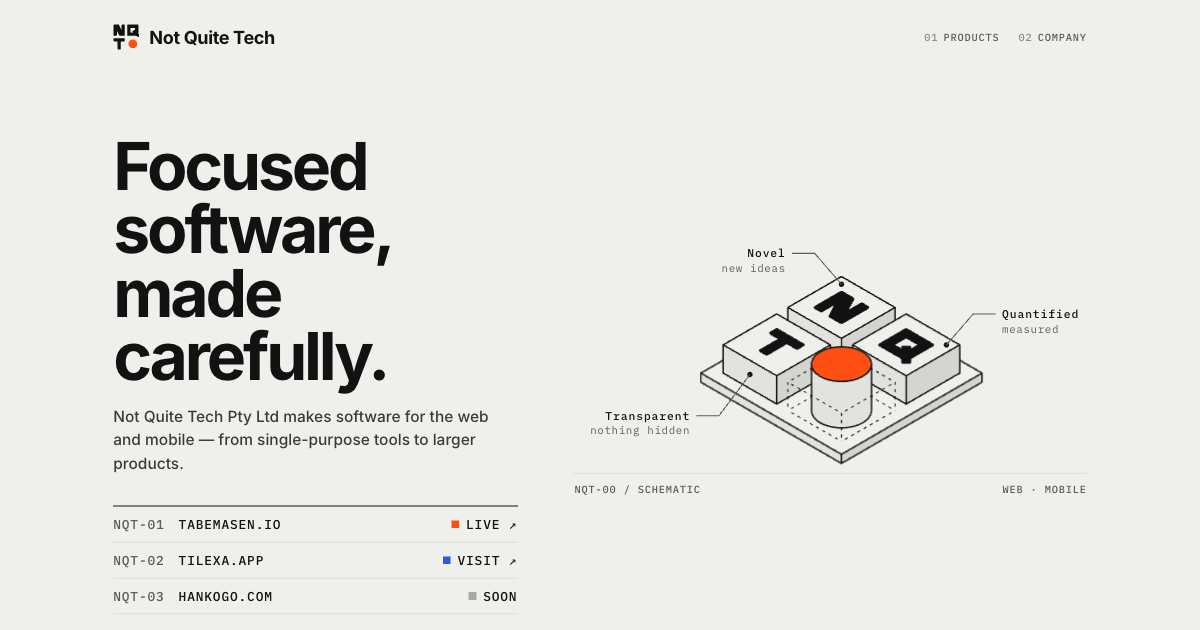
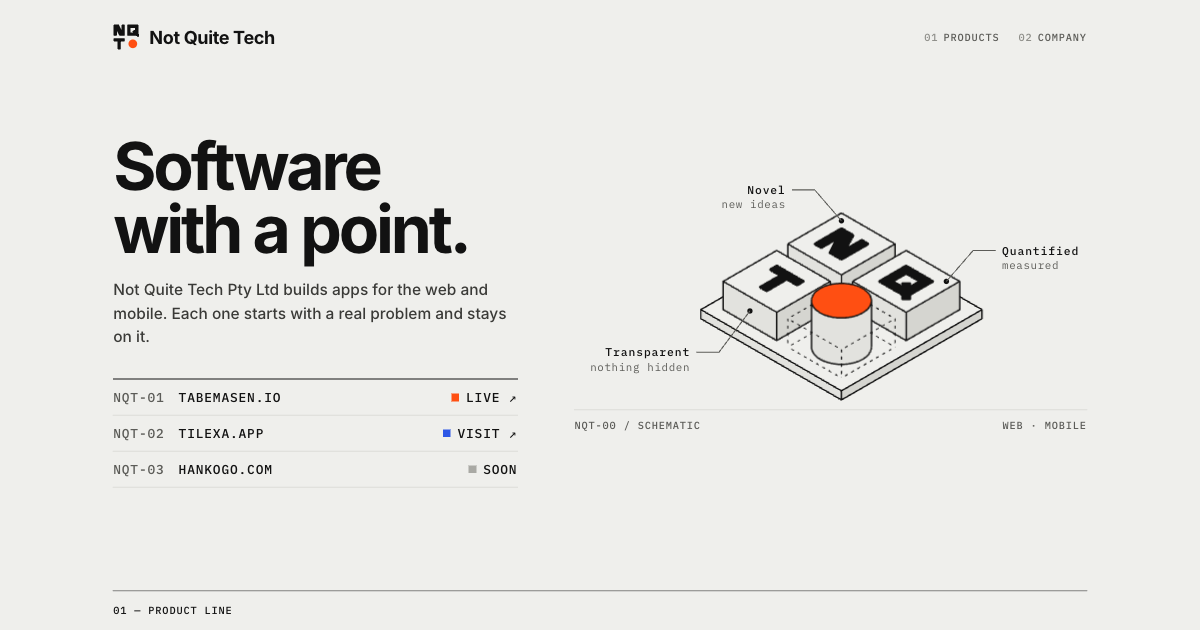
Rewrite copy, add SEO metadata, sitemap, robots and 404

diff --git a/index.html b/index.html
@@ -1,23 +1,37 @@
 <!DOCTYPE html>
-<html lang="en">
+<html lang="en-AU">
 <head>
   <meta charset="utf-8">
   <meta name="viewport" content="width=device-width, initial-scale=1">
-  <title>Not Quite Tech Pty Ltd</title>
-  <meta name="description" content="Not Quite Tech Pty Ltd makes focused software for the web and mobile.">
+  <title>Not Quite Tech · Software with a point</title>
+  <meta name="description" content="Not Quite Tech Pty Ltd is an Australian company building apps for the web and mobile, including tabemasen, tilexa and hankogo.">
+  <link rel="canonical" href="https://nqtn.me/">
   <meta name="theme-color" content="#EFEFEC">
   <link rel="icon" href="assets/img/favicon.svg" type="image/svg+xml">
   <link rel="apple-touch-icon" href="assets/img/apple-touch-icon.png">
   <meta property="og:type" content="website">
-  <meta property="og:title" content="Not Quite Tech Pty Ltd">
-  <meta property="og:description" content="Focused software, made carefully.">
+  <meta property="og:site_name" content="Not Quite Tech">
+  <meta property="og:url" content="https://nqtn.me/">
+  <meta property="og:locale" content="en_AU">
+  <meta property="og:title" content="Not Quite Tech · Software with a point">
+  <meta property="og:description" content="Apps for the web and mobile. Each one starts with a real problem and stays on it.">
   <meta property="og:image" content="https://nqtn.me/assets/img/og.png">
+  <meta property="og:image:width" content="1200">
+  <meta property="og:image:height" content="630">
+  <meta property="og:image:alt" content="Not Quite Tech homepage: the headline Software with a point, beside a schematic of three lettered blocks and an orange cylinder.">
   <meta name="twitter:card" content="summary_large_image">
+  <meta name="twitter:title" content="Not Quite Tech · Software with a point">
+  <meta name="twitter:description" content="Apps for the web and mobile. Each one starts with a real problem and stays on it.">
+  <meta name="twitter:image" content="https://nqtn.me/assets/img/og.png">
   <link rel="preload" href="assets/fonts/inter-latin.woff2" as="font" type="font/woff2" crossorigin>
   <link rel="stylesheet" href="assets/css/site.css">
   <script data-goatcounter="https://nqtn.goatcounter.com/count" async src="//gc.zgo.at/count.js"></script>
   <script type="application/ld+json">
-  {"@context":"https://schema.org","@type":"Organization","name":"Not Quite Tech Pty Ltd","url":"https://nqtn.me","logo":"https://nqtn.me/assets/img/mark.svg"}
+  {"@context":"https://schema.org","@graph":[
+    {"@type":"Organization","@id":"https://nqtn.me/#org","name":"Not Quite Tech","legalName":"Not Quite Tech Pty Ltd","url":"https://nqtn.me/","logo":{"@type":"ImageObject","url":"https://nqtn.me/assets/img/apple-touch-icon.png","width":180,"height":180},"address":{"@type":"PostalAddress","addressCountry":"AU"},"description":"Australian company building apps for the web and mobile."},
+    {"@type":"WebSite","@id":"https://nqtn.me/#website","url":"https://nqtn.me/","name":"Not Quite Tech","publisher":{"@id":"https://nqtn.me/#org"},"inLanguage":"en-AU"},
+    {"@type":"WebApplication","name":"tabemasen","url":"https://tabemasen.io","description":"A restaurant card that tells the kitchen what you can't eat.","applicationCategory":"LifestyleApplication","operatingSystem":"Web","publisher":{"@id":"https://nqtn.me/#org"}}
+  ]}
   </script>
 </head>
 <body>
@@ -34,8 +48,8 @@
   <main>
     <section class="hero" id="top">
       <div class="h-text">
-        <h1>Focused software,<br>made carefully.</h1>
-        <p>Not Quite Tech Pty Ltd makes software for the web and mobile — from single-purpose tools to larger products.</p>
+        <h1>Software<br>with a point.</h1>
+        <p>Not Quite Tech Pty Ltd builds apps for the web and mobile. Each one starts with a real problem and stays on it.</p>
         <div class="contents mono">
           <a href="https://tabemasen.io"><span class="muted">NQT-01</span><span class="nm2">tabemasen.io</span><span class="st"><i class="sq b1"></i>live ↗</span></a>
           <a href="https://tilexa.app"><span class="muted">NQT-02</span><span class="nm2">tilexa.app</span><span class="st"><i class="sq b2"></i>visit ↗</span></a>
@@ -55,7 +69,7 @@
           <a class="box" href="https://tabemasen.io" aria-label="tabemasen.io: tell the kitchen what you can’t eat. Live.">
             <div class="flap kraft" aria-hidden="true"><img src="assets/img/mark.svg" alt=""><span class="mono">this side up</span></div>
             <div class="front kraft">
-              <div class="hd"><span class="nm">tabemasen</span><span class="mono">NQT-01</span></div>
+              <div class="hd"><h3 class="nm">tabemasen</h3><span class="mono">NQT-01</span></div>
               <div class="sub"><span class="mono muted">restaurant card</span></div>
               <div class="art"><img src="assets/img/iso-tabemasen.svg" alt="" width="300" height="220"></div>
               <div class="meta"><p>Tell the kitchen what you can’t eat.</p><div><div class="barcode"></div><div class="code">010.NQT.001</div></div></div>
@@ -68,7 +82,7 @@
           <a class="box" href="https://tilexa.app" aria-label="tilexa.app">
             <div class="flap kraft" aria-hidden="true"><img src="assets/img/mark.svg" alt=""><span class="mono">this side up</span></div>
             <div class="front kraft">
-              <div class="hd"><span class="nm">tilexa</span><span class="mono">NQT-02</span></div>
+              <div class="hd"><h3 class="nm">tilexa</h3><span class="mono">NQT-02</span></div>
               <div class="sub"><span class="mono muted">tilexa.app</span></div>
               <div class="art"><img src="assets/img/iso-tilexa.svg" alt="" width="300" height="220"></div>
               <div class="meta"><p></p><div><div class="barcode"></div><div class="code">010.NQT.002</div></div></div>
@@ -81,7 +95,7 @@
           <div class="box" role="group" aria-label="hankogo.com, coming soon">
             <div class="flap kraft" aria-hidden="true"><img src="assets/img/mark.svg" alt=""><span class="mono">this side up</span></div>
             <div class="front kraft">
-              <div class="hd"><span class="nm">hankogo</span><span class="mono">NQT-03</span></div>
+              <div class="hd"><h3 class="nm">hankogo</h3><span class="mono">NQT-03</span></div>
               <div class="sub"><span class="mono muted">seal</span></div>
               <span class="soon-stamp">soon…</span>
               <div class="art"><img src="assets/img/iso-hankogo.svg" alt="" width="300" height="220"></div>
@@ -98,8 +112,8 @@
       <div class="sec-head mono"><h2>02 — Company</h2></div>
       <div class="spec">
         <div class="about">
-          <h3>Focused software, made carefully.</h3>
-          <p>Not Quite Tech Pty Ltd makes software for the web and mobile. Some of it is a single, sharp tool; some of it is a larger product. Each one is built to do its job well.</p>
+          <h3>Why “not quite”.</h3>
+          <p>Because software is never finished. Ours ships when it does its job well. Then we watch how people use it and keep tuning. The name keeps us honest.</p>
           <ol class="principles">
             <li><span class="lt" aria-hidden="true"><svg viewBox="-1 -1 22 22" fill="currentColor" stroke="currentColor" stroke-width="1.6" stroke-linejoin="round"><polygon fill-rule="evenodd" points="0.80,0.80 7.88,0.80 13.37,11.10 13.37,0.80 17.20,0.80 17.20,17.20 10.12,17.20 4.63,6.90 4.63,17.20 0.80,17.20"/></svg></span><span><b>Novel</b>New ideas, not copies.</span></li>
             <li><span class="lt" aria-hidden="true"><svg viewBox="-1 -1 22 22" fill="currentColor" stroke="currentColor" stroke-width="1.6" stroke-linejoin="round"><polygon fill-rule="evenodd" points="0.80,0.80 17.20,0.80 17.20,17.20 0.80,17.20 0.80,0.80 4.63,4.63 4.63,13.37 13.37,13.37 13.37,4.63 4.63,4.63"/><polygon fill-rule="evenodd" points="9.18,11.37 11.37,9.18 19.48,17.29 17.29,19.48"/></svg></span><span><b>Quantified</b>Measured, not guessed.</span></li>

diff --git a/404.html b/404.html
@@ -1,0 +1,45 @@
+<!DOCTYPE html>
+<html lang="en-AU">
+<head>
+  <meta charset="utf-8">
+  <meta name="viewport" content="width=device-width, initial-scale=1">
+  <title>Not found · Not Quite Tech</title>
+  <meta name="robots" content="noindex">
+  <meta name="theme-color" content="#EFEFEC">
+  <link rel="icon" href="/assets/img/favicon.svg" type="image/svg+xml">
+  <link rel="apple-touch-icon" href="/assets/img/apple-touch-icon.png">
+  <link rel="stylesheet" href="/assets/css/site.css">
+  <script data-goatcounter="https://nqtn.goatcounter.com/count" async src="//gc.zgo.at/count.js"></script>
+</head>
+<body>
+<div class="page">
+  <header class="top">
+    <a class="brand" href="/" aria-label="Not Quite Tech home"><img src="/assets/img/mark.svg" alt="" width="30" height="30"><b>Not Quite Tech</b></a>
+    <nav class="mono" aria-label="Sections">
+      <a href="/#products"><span>01</span>Products</a>
+      <a href="/#company"><span>02</span>Company</a>
+    </nav>
+  </header>
+
+  <main class="doc">
+    <p class="mono muted">Error 404</p>
+    <h1>Not quite here.</h1>
+    <p>This page does not exist, or it moved. <a href="/">Back to the start</a>.</p>
+  </main>
+
+  <footer class="foot mono">
+    <div class="foot-body">
+      <span class="mark"><img src="/assets/img/mark.svg" alt=""><b>Not Quite Tech</b></span>
+      <div class="rows">
+        <span><b>Ref</b> <span class="muted">NQT-00</span></span>
+        <span><b>Maker</b> <span class="muted">Not Quite Tech Pty Ltd</span></span>
+        <span><b>Origin</b> <span class="muted">Australia</span></span>
+        <span><b>©</b> <span class="muted">2026 Not Quite Tech Pty Ltd</span></span>
+      </div>
+      <nav aria-label="Footer"><a href="/">Home</a></nav>
+    </div>
+    <div class="tri" aria-hidden="true"><i class="b1"></i><i class="b2"></i><i class="b3"></i></div>
+  </footer>
+</div>
+</body>
+</html>

diff --git a/privacy.html b/privacy.html
@@ -1,10 +1,17 @@
 <!DOCTYPE html>
-<html lang="en">
+<html lang="en-AU">
 <head>
   <meta charset="utf-8">
   <meta name="viewport" content="width=device-width, initial-scale=1">
-  <title>Privacy — Not Quite Tech</title>
-  <meta name="description" content="Privacy statement for nqtn.me, the website of Not Quite Tech Pty Ltd.">
+  <title>Privacy · Not Quite Tech</title>
+  <meta name="description" content="How nqtn.me, the website of Not Quite Tech Pty Ltd, handles your data: no cookies, no ads, cookie-free page counts with GoatCounter.">
+  <link rel="canonical" href="https://nqtn.me/privacy.html">
+  <meta property="og:type" content="article">
+  <meta property="og:site_name" content="Not Quite Tech">
+  <meta property="og:url" content="https://nqtn.me/privacy.html">
+  <meta property="og:title" content="Privacy · Not Quite Tech">
+  <meta property="og:image" content="https://nqtn.me/assets/img/og.png">
+  <meta name="twitter:card" content="summary_large_image">
   <meta name="theme-color" content="#EFEFEC">
   <link rel="icon" href="assets/img/favicon.svg" type="image/svg+xml">
   <link rel="apple-touch-icon" href="assets/img/apple-touch-icon.png">

diff --git a/assets/css/site.css b/assets/css/site.css
@@ -122,7 +122,7 @@ a.box:focus-visible .front { outline: 2px solid var(--signal); outline-offset: 4
 .side .v { flex: 1; writing-mode: vertical-rl; display: flex; justify-content: space-between; align-items: center; padding: 18px 0; margin: 0 auto; }
 .side .band { padding: 0; justify-content: center; }
 .front .hd { display: flex; justify-content: space-between; align-items: flex-start; padding: 18px 18px 0; }
-.front .nm { font-size: 27px; font-weight: 500; letter-spacing: -.03em; line-height: 1; }
+.front .nm { margin: 0; font-size: 27px; font-weight: 500; letter-spacing: -.03em; line-height: 1; }
 .front .sub { display: flex; gap: 10px; align-items: baseline; padding: 6px 18px 0; }
 .front .art { flex: 1; display: grid; place-items: center; padding: 0 8px; min-height: 0; }
 .front .art img { width: 100%; height: auto; }
